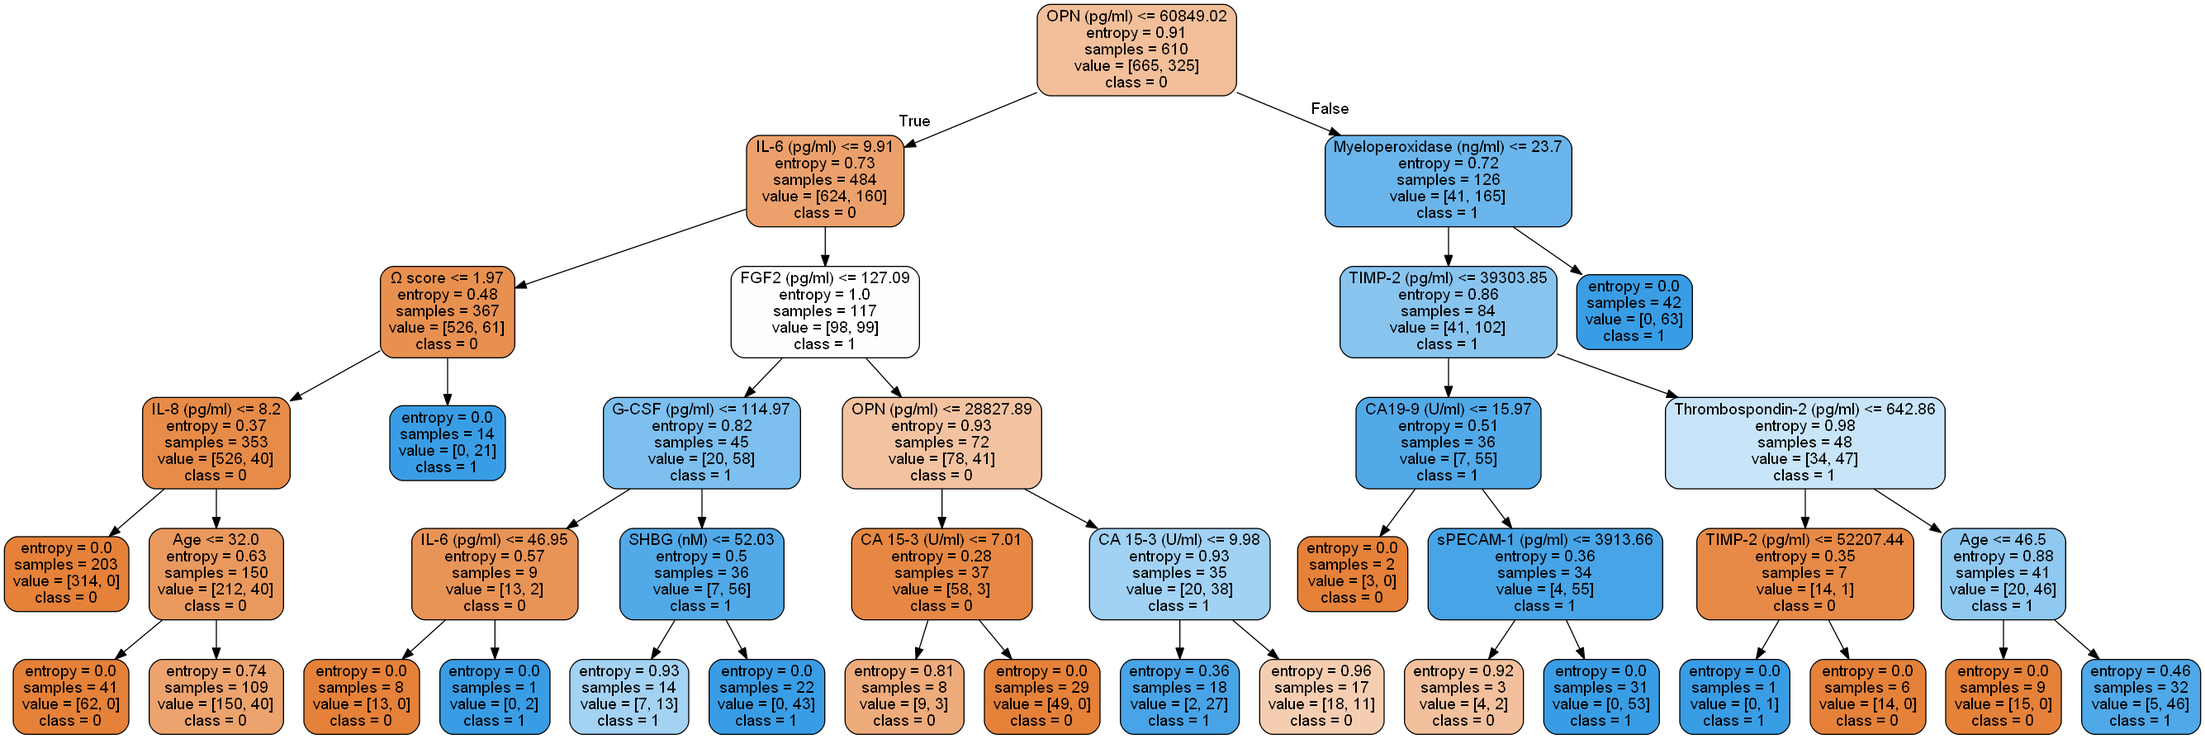
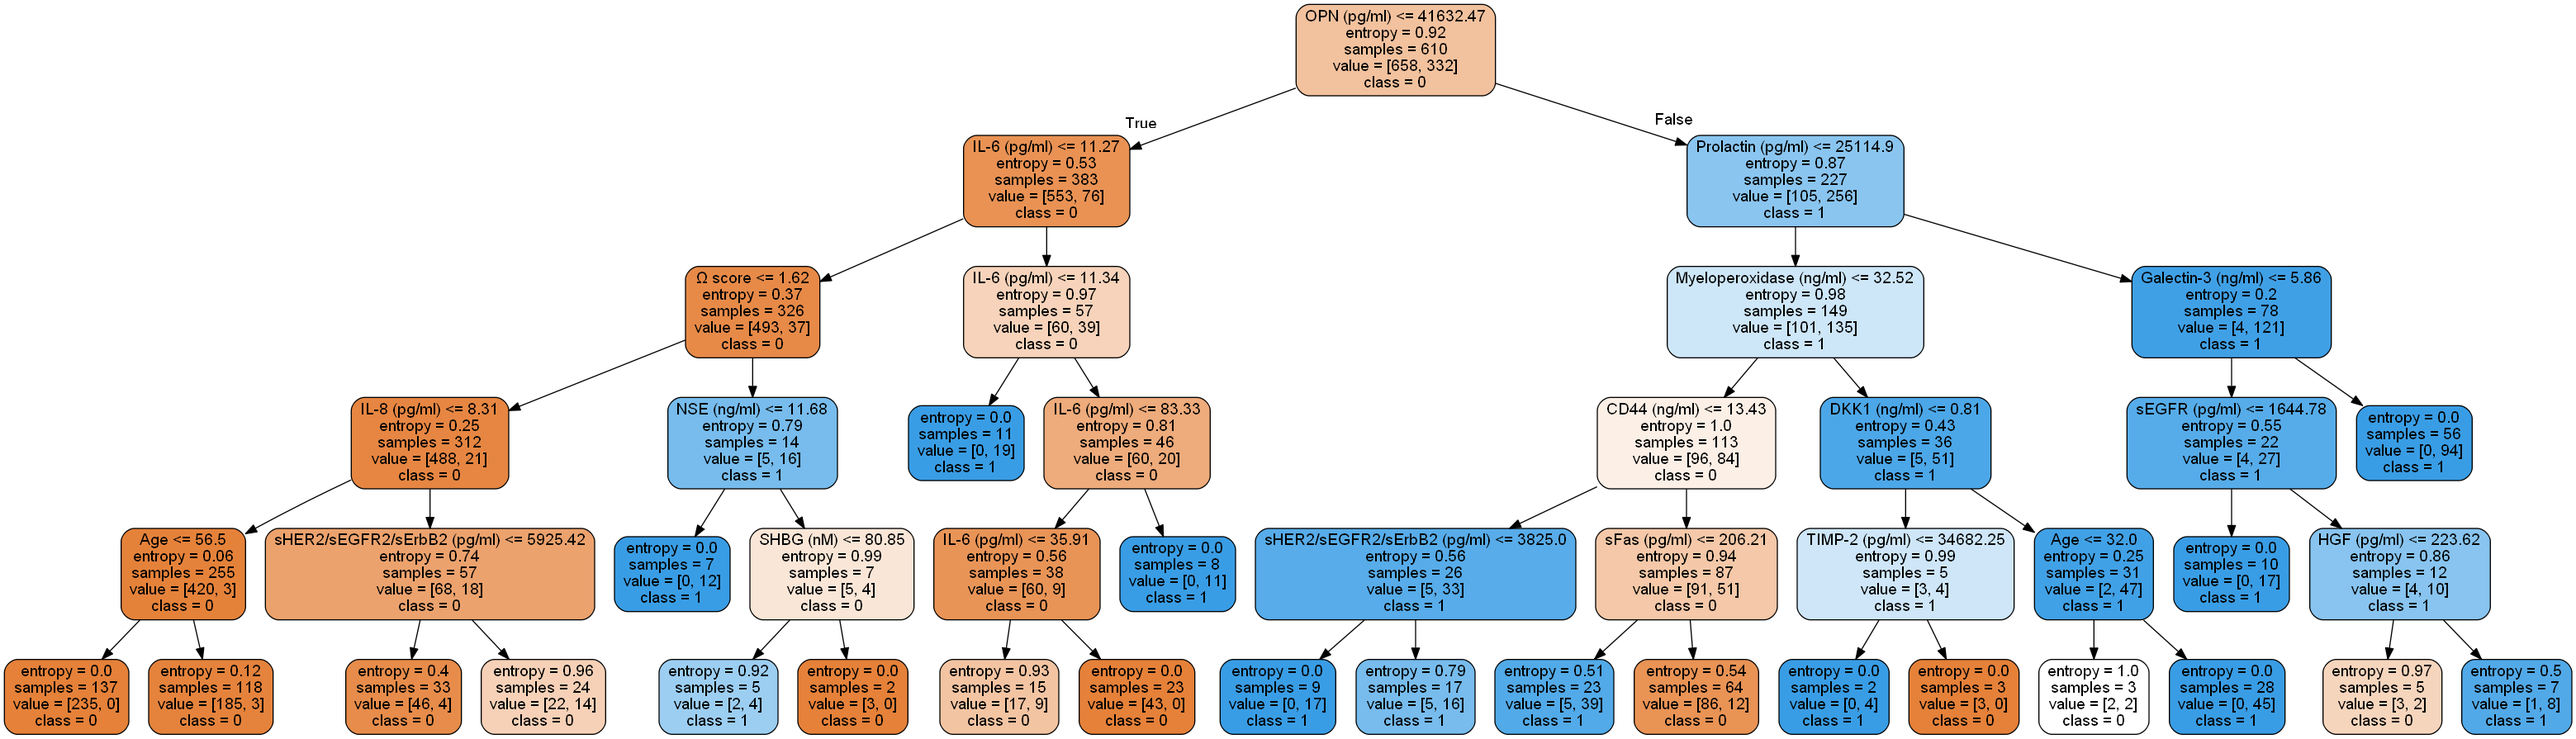
Shuffled colorectum data for testing

diff --git a/ReadData.py b/ReadData.py
@@ -7,6 +7,7 @@ def read_data():
     colorectum_final = colorectum_starter.drop(["Patient ID #", "Sample ID #", "Tumor type", "Race",
                                                 "AJCC Stage", "CancerSEEK Logistic Regression Score",
                                                 "CancerSEEK Test Result"], axis=1)
+    colorectum_final = colorectum_final.sample(frac=1, random_state=553)
     sample_data = sample_data.drop(["Patient ID #", "Sample ID #", "Tumor type", "Race", "AJCC Stage"], axis=1)
     demographic_biomarker_data = sample_data.drop(["CancerSEEK Logistic Regression Score", "CancerSEEK Test Result"], axis=1)
     biomarker_data = demographic_biomarker_data.drop(["Age", "Sex"], axis=1)
